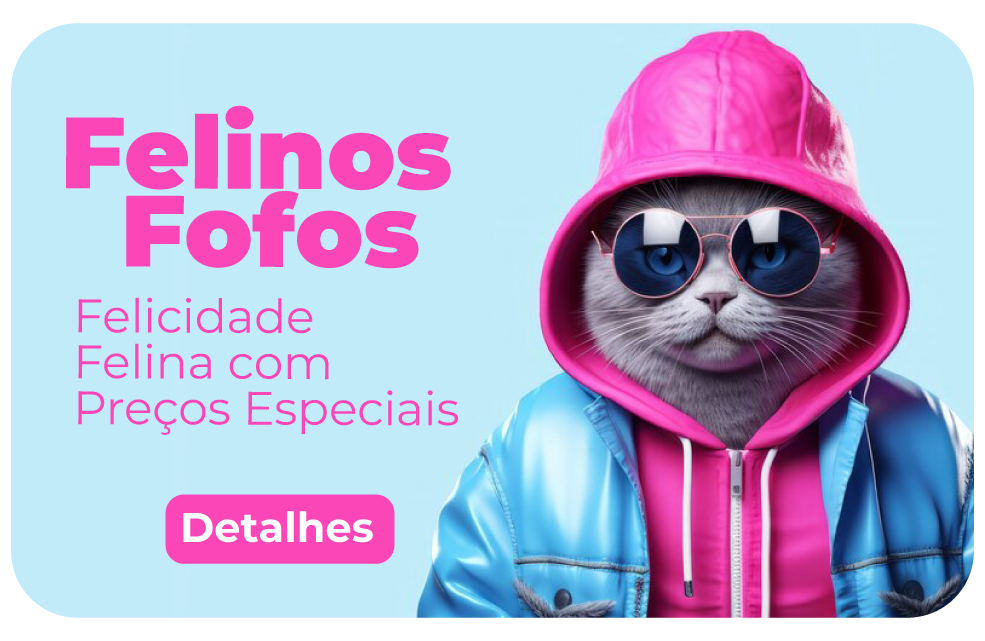
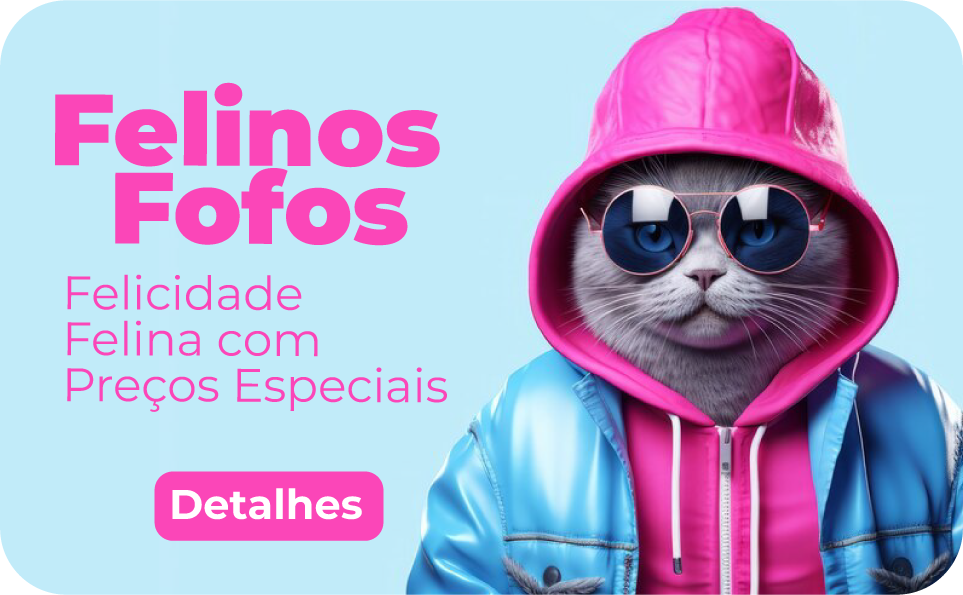
categories images shadow

diff --git a/front/app/components/Categories.tsx b/front/app/components/Categories.tsx
@@ -14,7 +14,7 @@ export default function Categories() {
         <div className='text-6xl text-front-blue text-center flex justify-center gap-7 mb-24'>
           <FaPaw /> Navegue por Categorias!
         </div>
-        <div className='grid grid-cols-1 md:grid-cols-3 relative h-full gap-7 mt-20'>
+        <div className='grid grid-cols-1 md:grid-cols-3 relative h-full gap-7 mt-20 md:mb-7'>
           <div className='image-wrapper'>
             <Link href='/produtos?category=Cachorros'>
               <Image draggable={false} src={Cat1} alt='Cachorros' />

diff --git a/front/app/styles/public-components/parts/Categories.scss b/front/app/styles/public-components/parts/Categories.scss
@@ -11,17 +11,7 @@
   }
 
   img {
+    border-radius: 3rem;
     box-shadow: -4px 3px 33px -11px #292029;
   }
-  /* a {
-    background-color: transparent;
-    border-radius: 3rem;
-    box-shadow: 0px 0px 45px 18px rgba(0, 0, 0, 0.3);
-    overflow: hidden;
-    img {
-      background-color: transparent;
-      object-fit: cover;
-      overflow: hidden;
-    }
-  } */
 }
